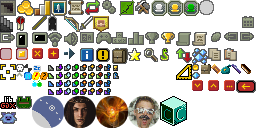
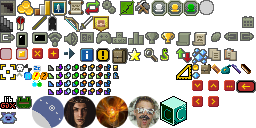
v1.0: items in a heap can be rearranged

Changed region(s): [[0.75, 0.75, 0.875, 0.8438]]

diff --git a/core/src/main/java/com/shatteredpixel/shatteredpixeldungeon/editor/editcomps/parts/ReorderHeapComp.java b/core/src/main/java/com/shatteredpixel/shatteredpixeldungeon/editor/editcomps/parts/ReorderHeapComp.java
@@ -1,0 +1,134 @@
+package com.shatteredpixel.shatteredpixeldungeon.editor.editcomps.parts;
+
+import com.shatteredpixel.shatteredpixeldungeon.editor.EditorScene;
+import com.shatteredpixel.shatteredpixeldungeon.editor.editcomps.EditCompWindowTabbed;
+import com.shatteredpixel.shatteredpixeldungeon.editor.util.EditorUtilies;
+import com.shatteredpixel.shatteredpixeldungeon.items.Heap;
+import com.shatteredpixel.shatteredpixeldungeon.items.Item;
+import com.shatteredpixel.shatteredpixeldungeon.messages.Messages;
+import com.shatteredpixel.shatteredpixeldungeon.ui.IconButton;
+import com.shatteredpixel.shatteredpixeldungeon.ui.Icons;
+import com.shatteredpixel.shatteredpixeldungeon.ui.Window;
+import com.watabou.noosa.ui.Component;
+
+public class ReorderHeapComp extends Component {
+
+    private IconButton moveLeft, moveRight;
+
+    private final Item item;
+    private final Heap heap;
+
+
+    public boolean layoutRTL = true;
+
+    public ReorderHeapComp(Item item, Heap heap) {
+        this.item = item;
+        this.heap = heap;
+    }
+
+
+    @Override
+    protected void createChildren(Object... params) {
+
+        moveLeft = new IconButton(Icons.LEFT.get()) {
+            @Override
+            protected void onClick() {
+                swapItems(-1);
+            }
+
+            @Override
+            protected String hoverText() {
+                return Messages.get(ReorderHeapComp.class, "move_left_tooltip");
+            }
+        };
+        add(moveLeft);
+
+        moveRight = new IconButton(Icons.RIGHT.get()) {
+            @Override
+            protected void onClick() {
+                swapItems(1);
+            }
+
+            @Override
+            protected String hoverText() {
+                return Messages.get(ReorderHeapComp.class, "move_right_tooltip");
+            }
+        };
+        add(moveRight);
+    }
+
+    @Override
+    protected void layout() {
+
+        updateEnableState();
+
+        float posX = x;
+
+        if (layoutRTL) {
+            float iconWith = moveRight.icon().width();
+            if (moveRight.visible) {
+                moveRight.setRect(posX - iconWith, y + (height - iconWith) * 0.5f, iconWith, moveRight.icon().height());
+                posX -= iconWith + 2;
+            }
+
+            iconWith = moveLeft.icon().width();
+            if (moveLeft.visible) {
+                moveLeft.setRect(posX - iconWith, y + (height - iconWith) * 0.5f, iconWith, moveLeft.icon().height());
+                posX -= iconWith + 2;
+            }
+            width = x - posX + 2;
+        } else {
+            float iconWith = moveLeft.icon().width();
+            if (moveLeft.visible) {
+                moveLeft.setRect(posX, y + (height - iconWith) * 0.5f, iconWith, moveLeft.icon().height());
+                posX += iconWith + 2;
+            }
+            iconWith = moveRight.icon().width();
+            if (moveRight.visible) {
+                moveRight.setRect(posX, y + (height - iconWith) * 0.5f, iconWith, moveRight.icon().height());
+                posX += iconWith + 2;
+            }
+            width = posX - x - 2;
+        }
+
+    }
+
+    @Override
+    public float right() {
+        return layoutRTL ? x : super.right();
+    }
+
+    @Override
+    public float left() {
+        return layoutRTL ? x - width : super.left();
+    }
+
+    public void updateEnableState(){
+        boolean isItemAtTop = heap.items.peek() == item;
+        boolean isItemAtBottom = heap.items.peekLast() == item;
+
+        moveLeft.enable(!isItemAtTop);
+        moveRight.enable(!isItemAtBottom);
+    }
+
+    //need to make sure that item at index actually exists!
+    private void swapItems(int direction) {
+        Window w = EditorUtilies.getParentWindow(this);
+        if (w instanceof EditCompWindowTabbed) {
+            Item other = heap.items.get(heap.items.indexOf(item) + direction);
+
+            int index1 = heap.items.indexOf(item);
+            int index2 = heap.items.indexOf(other);
+            heap.items.remove(item);
+            heap.items.add(index2, item);
+            heap.items.remove(other);
+            heap.items.add(index1, other);
+
+            EditorScene.updateHeapImage(heap);
+            heap.updateSubicon();
+            ((EditCompWindowTabbed) w).swapItemTabs(other, item, heap);
+
+            updateEnableState();
+        }
+    }
+}

diff --git a/core/src/main/java/com/shatteredpixel/shatteredpixeldungeon/editor/editcomps/EditItemComp.java b/core/src/main/java/com/shatteredpixel/shatteredpixeldungeon/editor/editcomps/EditItemComp.java
@@ -2,6 +2,7 @@ package com.shatteredpixel.shatteredpixeldungeon.editor.editcomps;
 
 import com.shatteredpixel.shatteredpixeldungeon.Dungeon;
 import com.shatteredpixel.shatteredpixeldungeon.editor.EditorScene;
+import com.shatteredpixel.shatteredpixeldungeon.editor.editcomps.parts.ReorderHeapComp;
 import com.shatteredpixel.shatteredpixeldungeon.editor.editcomps.parts.items.AugumentationSpinner;
 import com.shatteredpixel.shatteredpixeldungeon.editor.editcomps.parts.items.ChargeSpinner;
 import com.shatteredpixel.shatteredpixeldungeon.editor.editcomps.parts.items.CurseButton;
@@ -45,6 +46,7 @@ import com.shatteredpixel.shatteredpixeldungeon.ui.RedButton;
 import com.shatteredpixel.shatteredpixeldungeon.ui.Window;
 import com.shatteredpixel.shatteredpixeldungeon.windows.IconTitle;
 import com.shatteredpixel.shatteredpixeldungeon.windows.WndTabbed;
+import com.shatteredpixel.shatteredpixeldungeon.windows.WndTitledMessage;
 import com.watabou.noosa.Game;
 import com.watabou.noosa.Image;
 import com.watabou.noosa.PointerArea;
@@ -57,6 +59,9 @@ import java.util.List;
 public class EditItemComp extends DefaultEditComp<Item> {
 
     private final Heap heap;
+
+    protected final ReorderHeapComp reorderHeapComp;
+
 
     protected final Spinner quantity, quickslotPos;
 
@@ -79,6 +84,11 @@ public class EditItemComp extends DefaultEditComp<Item> {
     public EditItemComp(Item item, Heap heap) {
         super(item);
         this.heap = heap;
+
+        if (heap != null) {
+            reorderHeapComp = new ReorderHeapComp(item, heap);
+            add(reorderHeapComp);
+        } else reorderHeapComp = null;
 
         if (item.stackable) {
             final int quantityMultiplierForGold = item instanceof Gold ? 10 : 1;
@@ -297,8 +307,22 @@ public class EditItemComp extends DefaultEditComp<Item> {
 
     @Override
     protected void layout() {
-        super.layout();
+        desc.maxWidth((int) width);
+
+        if (reorderHeapComp != null) reorderHeapComp.setRect(width - WndTitledMessage.GAP , y, -1, title.height());
+
+        title.setRect(x, y, reorderHeapComp == null ? width : reorderHeapComp.left() - WndTitledMessage.GAP * 2, title.height());
+        desc.setRect(x, title.bottom() + WndTitledMessage.GAP * 2, desc.width(), desc.height());
+
+        height = desc.bottom() + 1;
+
         layoutCompsLinear(comps);
+    }
+
+    @Override
+    protected void onShow() {
+        super.onShow();
+        if (reorderHeapComp != null) reorderHeapComp.updateEnableState();
     }
 
     @Override

diff --git a/core/src/main/java/com/shatteredpixel/shatteredpixeldungeon/editor/editcomps/EditCompWindowTabbed.java b/core/src/main/java/com/shatteredpixel/shatteredpixeldungeon/editor/editcomps/EditCompWindowTabbed.java
@@ -204,6 +204,34 @@ public class EditCompWindowTabbed extends WndTabbed {
         body.sp.scrollTo(body.sp.content().camera().scroll.x, comps.get(selectedObject).scrollPos);
     }
 
+    public void swapItemTabs(Item item1, Item item2, Heap heap) {
+        if(items == null) return;
+        int index1 = -1;
+        int index2 = -1;
+        for (int i = 0; i < items.length; i++) {
+            if (items[i] == item1) index1 = i;
+            if (items[i] == item2) index2 = i;
+        }
+        if (index1 == -1 || index2 == -1) return;
+
+        items[index1] = item2;
+        items[index2] = item1;
+
+        TabBtn tab1 = comps.get(item1).tabBtn;
+        TabBtn tab2 = comps.get(item2).tabBtn;
+
+        int tabIndex1 = tabs.indexOf(tab1);
+        int tabIndex2 = tabs.indexOf(tab2);
+        tabs.remove(tab1);
+        tabs.add(tabIndex2, tab1);
+        tabs.remove(tab2);
+        tabs.add(tabIndex1, tab2);
+
+        ((EditHeapComp) comps.get(heap).body.content).itemContainer.updateItemListOrder();
+
+        layoutTabs();
+    }
+
 
     public void select(Object object) {
         select(comps.get(object).tabBtn);
@@ -253,12 +281,13 @@ public class EditCompWindowTabbed extends WndTabbed {
             TabBody body = comps.get(obj).body;
             if (visible) comps.get(obj).scrollPos = body.sp.content().camera().scroll.y;
             body.active = body.visible = value;
+            if (value) body.content.onShow();
         }
     }
 
     private class TabBody extends Component {
 
-        private final Component content;
+        private final DefaultEditComp<?> content;
         private Runnable layouter;
         private ScrollPane sp;
 

diff --git a/core/src/main/java/com/shatteredpixel/shatteredpixeldungeon/editor/editcomps/ItemContainer.java b/core/src/main/java/com/shatteredpixel/shatteredpixeldungeon/editor/editcomps/ItemContainer.java
@@ -83,16 +83,7 @@ public class ItemContainer<T extends Item> extends Component implements WndBag.I
         if (itemList.size() > sizePrev)
             addItemToUI(item, false);//if it wasnt stacked
         else {
-            //Rearrange slots
-            Map<Item, Slot> slotMap = new HashMap<>();
-            for (Slot slot : slots) {
-                slot.item(slot.item());
-                slotMap.put(slot.item(), slot);
-            }
-            slots.clear();
-            for (Item i : itemList) slots.add(slotMap.get(i));
-            if (reverseUiOrder) Collections.reverse(slots);
-            ItemContainer.this.layout();
+            updateItemListOrder();
         }
     }
 
@@ -109,6 +100,19 @@ public class ItemContainer<T extends Item> extends Component implements WndBag.I
         }
         onSlotNumChange();
         updatePointerPriorityForSp();
+    }
+
+    protected void updateItemListOrder() {
+        //Rearrange slots
+        Map<Item, Slot> slotMap = new HashMap<>();
+        for (Slot slot : slots) {
+            slot.item(slot.item());
+            slotMap.put(slot.item(), slot);
+        }
+        slots.clear();
+        for (Item i : itemList) slots.add(slotMap.get(i));
+        if (reverseUiOrder) Collections.reverse(slots);
+        ItemContainer.this.layout();
     }
 
     @Override

diff --git a/core/src/main/java/com/shatteredpixel/shatteredpixeldungeon/ui/Icons.java b/core/src/main/java/com/shatteredpixel/shatteredpixeldungeon/ui/Icons.java
@@ -82,6 +82,8 @@ public enum Icons {
     PLUS,
     EXPAND,
     FOLD,
+    LEFT,
+    RIGHT,
     MORE,
     BACK,
     RULER,
@@ -280,6 +282,12 @@ public enum Icons {
                 break;
             case FOLD:
                 icon.frame(icon.texture.uvRectBySize(208, 80, 11, 11));
+                break;
+            case LEFT:
+                icon.frame(icon.texture.uvRectBySize(192, 96, 11, 11));
+                break;
+            case RIGHT:
+                icon.frame(icon.texture.uvRectBySize(208, 96, 11, 11));
                 break;
             case MORE:
                 icon.frame(icon.texture.uvRectBySize(224, 80, 11, 11));

diff --git a/core/src/main/java/com/shatteredpixel/shatteredpixeldungeon/editor/editcomps/DefaultEditComp.java b/core/src/main/java/com/shatteredpixel/shatteredpixeldungeon/editor/editcomps/DefaultEditComp.java
@@ -50,6 +50,7 @@ public abstract class DefaultEditComp<T> extends Component {
 
     @Override
     protected void layout() {
+        //if you edit this, also check out EditItemComp#layout()
 
         desc.maxWidth((int) width);
 
@@ -61,6 +62,9 @@ public abstract class DefaultEditComp<T> extends Component {
 
     protected final void layoutCompsLinear(Component... comps) {
         height = EditorUtilies.layoutCompsLinear(WndTitledMessage.GAP, this, comps);
+    }
+
+    protected void onShow() {
     }
 
     protected abstract Component createTitle();

diff --git a/core/src/main/java/com/shatteredpixel/shatteredpixeldungeon/ui/IconButton.java b/core/src/main/java/com/shatteredpixel/shatteredpixeldungeon/ui/IconButton.java
@@ -58,7 +58,10 @@ public class IconButton extends Button {
 	
 	@Override
 	protected void onPointerUp() {
-		if (icon != null) icon.resetColor();
+		if (icon != null) {
+			icon.resetColor();
+			icon.alpha( active ? 1.0f : 0.3f );//why Evan why did you not add this?!?!?
+		}
 	}
 	
 	public void enable( boolean value ) {
